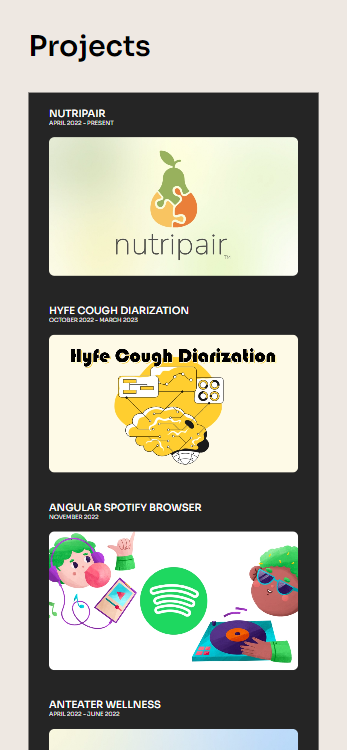
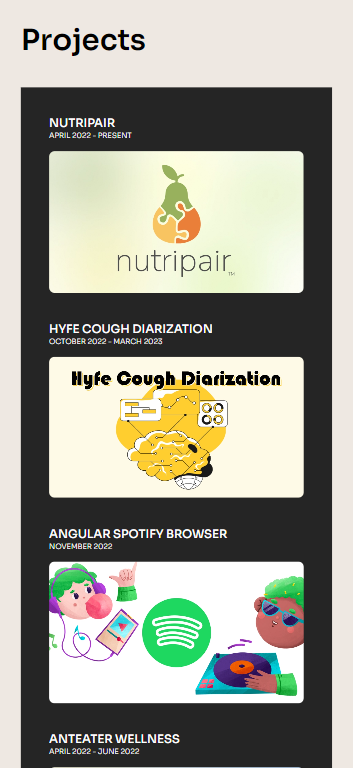
updated mobile projects page

diff --git a/styles/Project.module.scss b/styles/Project.module.scss
@@ -1,3 +1,8 @@
+// UTILITIES
+.no-wrap {
+	white-space: nowrap;
+}
+
 .container {
 	width: 100%;
 	display: flex;
@@ -11,7 +16,7 @@
 	padding: 3rem;
 	overflow: hidden;
 }
-.container > .container-left > .header {
+.container > .container-left > .h1 {
 	font-size: 0.9rem;
 	font-weight: 600;
 	margin-bottom: 1rem;
@@ -47,10 +52,6 @@
 	text-transform: uppercase;
 	margin-bottom: 0.5rem;
 }
-.container > .container-left > .additional-info .additional-info-content {
-	flex-wrap: wrap;
-	max-width: 100%;
-}
 .container > .container-right {
 	width: 50%;
 }
@@ -64,7 +65,7 @@
 	height: 100vh;
 }
 @media screen and (max-width: 1300px) {
-	.container > .container-left > .header {
+	.container > .container-left > .h1 {
 		font-size: 0.7rem;
 		margin: 1rem 0rem;
 	}
@@ -83,7 +84,7 @@
 	}
 }
 @media screen and (max-width: 1024px) and (max-height: 1366px) {
-	.container > .container-left > .header {
+	.container > .container-left > .h1 {
 		font-size: 0.8rem;
 		margin: 1rem 0rem;
 	}
@@ -102,7 +103,7 @@
 	}
 }
 @media screen and (max-width:820px) {
-	.container > .container-left > .header {
+	.container > .container-left > .h1 {
 		font-size: 0.6rem;
 		margin: 1rem 0rem;
 	}
@@ -116,36 +117,36 @@
 	.container > .container-left > .additional-info {
 		width: 70%;
 		bottom: 5rem;
-		font-size: 0.6
-		rem;
+		font-size: 0.6rem;
 		gap: 2rem;
 	}
 }
 @media screen and (max-width: 640px) {
 	.container {
-		flex-direction: column-reverse;
+		flex-direction: column;
 	}
 	.container > .container-right {
 		width: 100%;
 	}
 	.container > .container-left {
 		width: 100%;
-		padding: 3rem 2rem;
+		padding: 3rem 1.5rem;
 	}
-	.container > .container-left > .header {
-		font-size: 0.6rem;
+	.container > .container-left > .h1 {
+		font-size: 0.7rem;
 		margin: 1rem 0rem;
 	}
 	.container > .container-left > .project-description {
-		font-size: 0.8rem;
+		font-size: 0.9rem;
 		width: 100%;
 	}
 	.container > .container-left > .project-link {
-		font-size: 0.7rem;
+		font-size: 0.8rem;
 	}
 	.container > .container-left > .additional-info {
-		width: 80%;
-		bottom: 9rem;
-		font-size: 0.6rem;
+		width: 85%;
+		bottom: 8rem;
+		font-size: 0.65rem;
+		gap: 1.5rem;
 	}
 }

diff --git a/pages/Projects/[id].tsx b/pages/Projects/[id].tsx
@@ -15,7 +15,7 @@ const Project = ({ project }: ProjectProps) => {
 				style={{ backgroundColor: project.colorTheme }}
 				className={styles["container-left"]}
 			>
-				<h1 className={styles.header}>{project.name}</h1>
+				<h1 className={styles.h1}>{project.name}</h1>
 				{project.description.map((paragraph: string) => {
 					return <p className={styles["project-description"]}>{paragraph}</p>;
 				})}
@@ -40,9 +40,13 @@ const Project = ({ project }: ProjectProps) => {
 						<div className={styles["additional-info-content"]}>
 							{project.roles.map((role: string) => {
 								if (project.roles.indexOf(role) + 1 != project.roles.length) {
-									return `${role} • `;
+									return (
+										<span>
+											<span className={styles["no-wrap"]}>{role}</span> •{" "}
+										</span>
+									);
 								} else {
-									return role;
+									return <span className={styles["no-wrap"]}>{role}</span>;
 								}
 							})}
 						</div>

diff --git a/styles/ProjectCard.module.scss b/styles/ProjectCard.module.scss
@@ -67,10 +67,10 @@
 }
 @media screen and (max-width: 648px) {
 	.project-link-label {
-		font-size: .7rem;
+		font-size: .8rem;
 	}
 	.project-link-date {
-		font-size: 0.4rem;
+		font-size: 0.5rem;
 	}
 	.project-link-image {
 		width: max(10vw, 280px);

diff --git a/styles/Projects.module.scss b/styles/Projects.module.scss
@@ -54,10 +54,10 @@
 }
 @media screen and (max-width: 640px) {
   .container {
-    padding: 2rem;
+    padding: 1.5rem;
   }
   .project-links {
-    padding: 1rem;
+    padding: 2rem;
   }
   .h1 {
     font-size: 2rem;

diff --git a/styles/globals.css b/styles/globals.css
@@ -107,6 +107,7 @@ main {
 	#nav-toggle {
 		height: 4rem;
 		width: 4rem;
+		bottom: 2.5rem;
 	}
 	#nav-toggle > i {
 		display: none;
